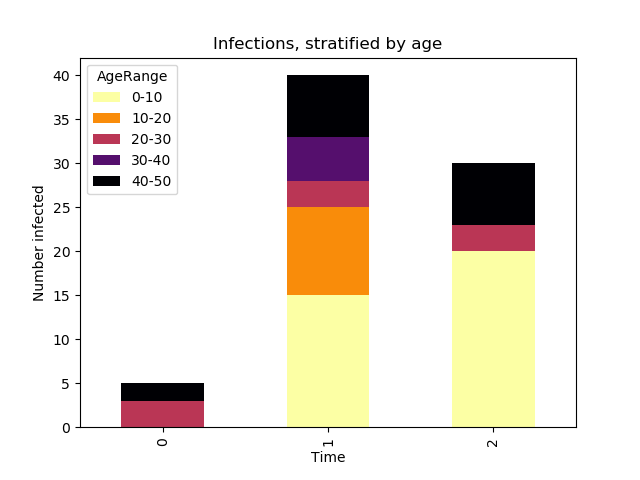
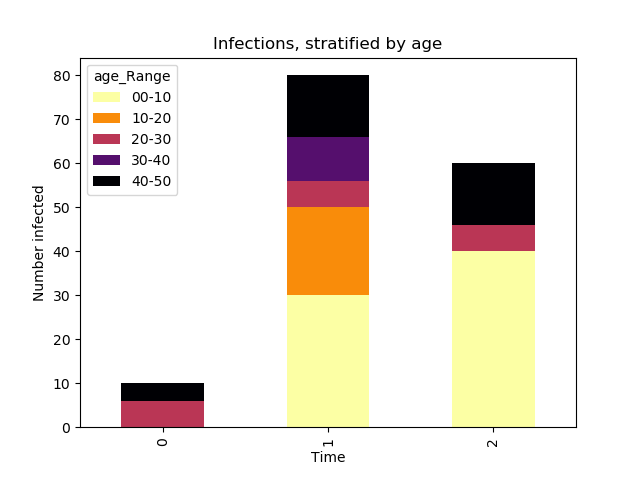
include spatial data

diff --git a/python_examples/age_stratified_example/age_stratified_plot.py b/python_examples/age_stratified_example/age_stratified_plot.py
@@ -15,41 +15,68 @@ class Plotter():
     including the capability to make an age-statified
     bar chart.
     """
-    def __init__(self, filepath: str):
+    def __init__(self, filepath: str, age_list: list = None):
+        """Initialise the plotter with a filepath and read
+        data from the csv
+
+        Parameters
+        ----------
+        filepath : str
+            Filepath to the .csv containing output data
+        age_list : list
+            List of the explicit age ranges saved in the csv
+        """
         if not os.path.splitext(filepath)[1] == ".csv":
             raise TypeError("input file" + filepath + "must be .csv")
-        self.filepath = filepath
         self.data = pd.read_csv(filepath)
-        self.do_ages = ("AgeRange" in list(self.data.columns))
-        print(self.do_ages)
-        
+        self.age_list = age_list
+
+        # Identify the column containing age stratifcation as any
+        # with the substring "age"
+        self.age_name = next((s for s in list(self.data.columns)
+                             if "age" in s.lower()), None)
+        self.do_ages = (self.age_name is not None)
+        if self.do_ages and (self.age_list is None):
+            num = self.data[self.age_name].max()
+            self.age_list = ["{}0-{}0".format(i, i+1) for i in range(num+1)]
+
     def sum_infectious(self) -> None:
-        '''Helper function which sums across all columns containing infectious
+        """Helper function which sums across all columns containing infectious
         people and appends the dataframe with a further column containing this
-        data.
-        '''
-        ind1 = list(self.data.columns).index("InfectionStatus.InfectASympt")
-        ind2 = list(self.data.columns).index("InfectionStatus.InfectICURecov")
-        self.data["Total Infectious"] = self.data.iloc[:, ind1:ind2+1].sum(axis=1)
+        data. Assumes infection status columns are next to each other.
+        """
+        i1 = list(self.data.columns).index("InfectionStatus.InfectASympt")
+        i2 = list(self.data.columns).index("InfectionStatus.InfectICURecov")
+        self.data["Total Infectious"] = self.data.iloc[:, i1:i2+1].sum(axis=1)
 
     def barchart(self, outfile: str,
                  infection_category: str = "Total Infectious"):
         """Function which creates a bar chart from csv data, with
-        capability to stratify by age if required.
+        capability to stratify by age if required. Plot is automatically
+        saved to a png file.
 
         Parameters
         ----------
+        outfile : str
+            Path to the .png file where the bar chart will be saved
         infection_category : str
-            Category to be plotted, includes 
+            Category to be plotted, defaults to Total Infectious
 
         """
         if infection_category == "Total Infectious":
             self.sum_infectious()
         new_frame = self.data.loc[:, ('time', infection_category)]
         if self.do_ages:
-            new_frame.loc[:, "AgeRange"] = self.data.loc[:, "AgeRange"]
-            new_frame = new_frame.pivot(index="time", columns='AgeRange',
+            new_frame.loc[:, self.age_name] = self.data.loc[:, self.age_name]
+            new_frame = new_frame.groupby(["time", self.age_name]) \
+                .sum().reset_index()
+            print(new_frame)
+            new_frame = new_frame.pivot(index="time", columns=self.age_name,
                                         values=infection_category)
+            if self.age_list:
+                # Renames columns to actual age ranges if given.
+                for i in range(len(list(new_frame.columns))):
+                    new_frame = new_frame.rename(columns={i: self.age_list[i]})
             new_frame.plot.bar(stacked=True, colormap="inferno_r")
         else:
             new_frame.plot.bar(x='time', y=infection_category)
